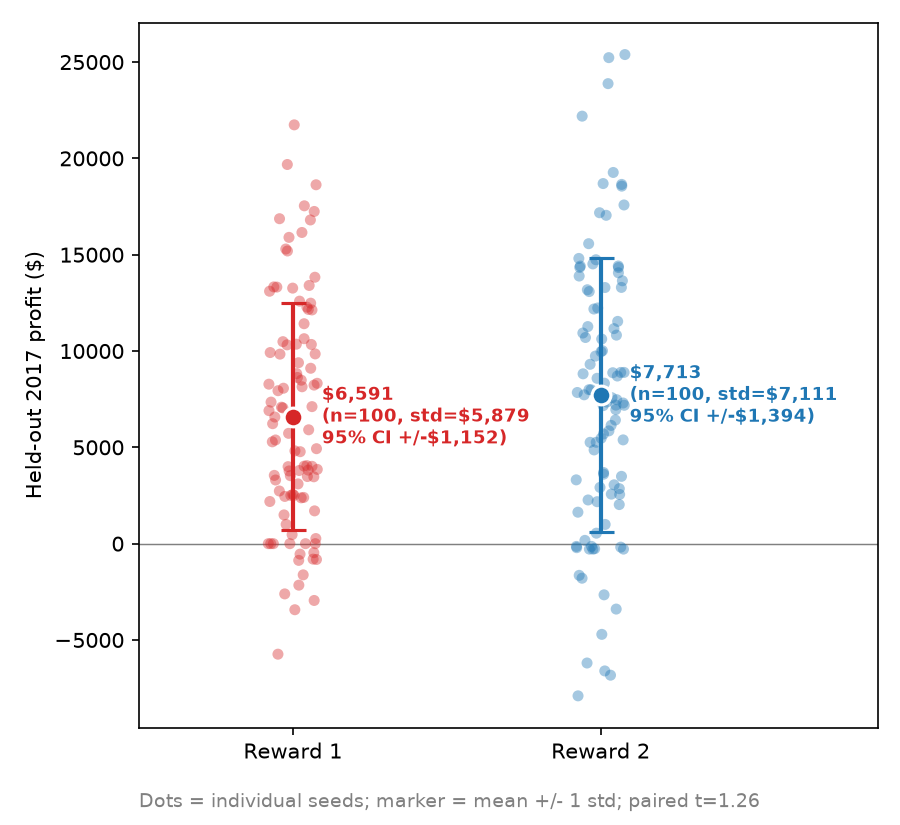
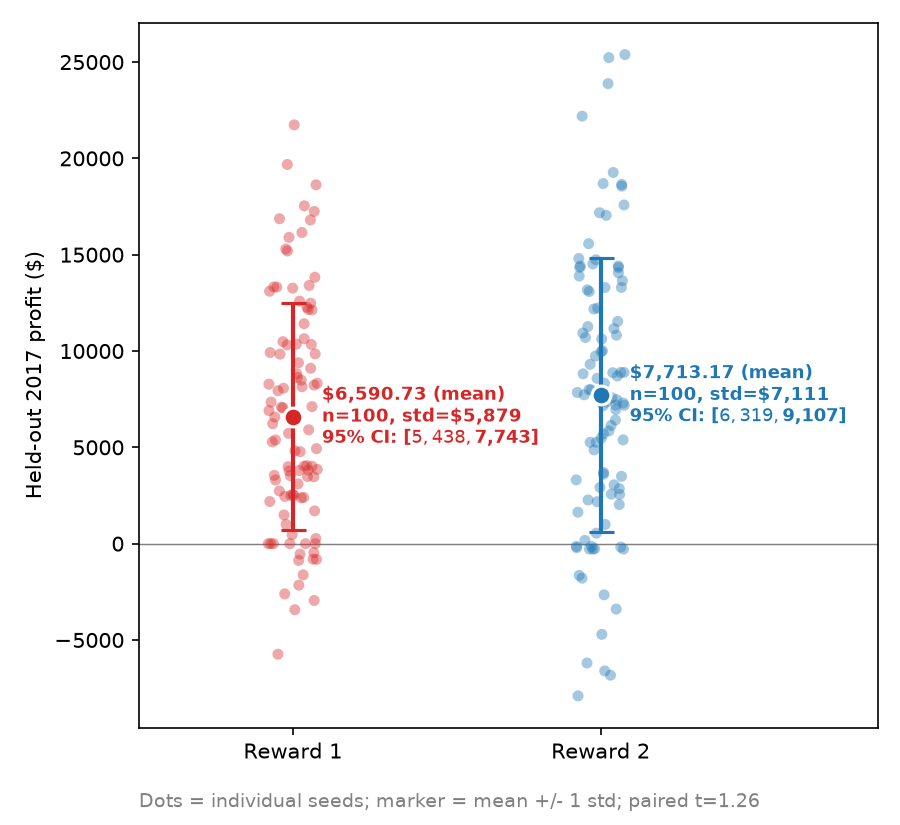
Bring evaluate.py's plot and the distribution plots to the same standard
evaluate.py's own held-out mean+/-std plot was the one remaining plot type
without a price panel or final-value annotation -- now matches the other
experiments (price panel on top, mean profit labeled in the legend and at
the curve's end). Output files renamed to held_out_2017_eval_plot.png /
held_out_2017_eval_summary.json directly (previously written as the
generic eval_plot.png/eval_summary.json and manually renamed after the
fact) so a future re-run doesn't produce stale unprefixed duplicates.

The multi-trial distribution/CI plots (training and held-out) now show the
literal 95% CI bounds ([$low, $high]) next to each mean, not just a +/-
half-width -- easier to read the interval directly off the plot.

Changed region(s): [[0.3422, 0.4545, 0.6222, 0.5455], [0.6844, 0.4242, 0.9333, 0.5152]]

diff --git a/evaluate.py b/evaluate.py
@@ -82,7 +82,12 @@ def main():
     print(f"Evaluating run {run_dir} ({len(trial_dirs)} trial(s)) on "
           f"{len(prices)} held-out hours from {args.data}")
 
-    plt.figure(figsize=(9, 5))
+    fig, (price_ax, profit_ax) = plt.subplots(2, 1, figsize=(10, 6.5), sharex=True, height_ratios=[1, 2])
+    hours_axis = np.arange(len(prices))
+    price_ax.plot(hours_axis, prices, color="tab:gray", linewidth=0.5)
+    price_ax.set_ylabel("Price ($/MWh)")
+    price_ax.set_title("Underlying price series", fontsize=10, color="dimgray", loc="left")
+    colors = {"reward_1": "tab:red", "reward_2": "tab:blue"}
     eval_results = {}
 
     for reward_kind in ("reward_1", "reward_2"):
@@ -128,24 +133,33 @@ def main():
         }
 
         hours = np.arange(len(mean_curve))
-        line, = plt.plot(hours, mean_curve, label=f"{reward_kind} (mean of {len(curves)} trials)")
-        plt.fill_between(hours, mean_curve - std_curve, mean_curve + std_curve,
-                          alpha=0.2, color=line.get_color(), label=f"{reward_kind} (+/- 1 std)")
+        color = colors[reward_kind]
+        profit_ax.fill_between(hours, mean_curve - std_curve, mean_curve + std_curve,
+                                alpha=0.2, color=color, linewidth=0)
+        profit_ax.plot(hours, mean_curve, color=color,
+                        label=f"{reward_kind} (mean of {len(curves)} trials): ${mean_curve[-1]:,.2f}")
+        profit_ax.annotate(f"${mean_curve[-1]:,.2f}", (len(mean_curve) - 1, mean_curve[-1]), color=color,
+                            fontsize=9, fontweight="bold", xytext=(6, 0),
+                            textcoords="offset points", va="center")
 
-    plt.xlabel("Time (hour)")
-    plt.ylabel("Cumulative profit ($)")
-    plt.title("Held-out evaluation -- mean +/- std across trials (greedy policy, frozen Q-tables)")
-    plt.legend()
-    plt.tight_layout()
+    profit_ax.axhline(0, color="gray", linewidth=0.7)
+    profit_ax.set_xlabel("Time (hour)")
+    profit_ax.set_ylabel("Cumulative profit ($)")
+    profit_ax.set_title("Held-out evaluation -- mean +/- 1 std across trials (greedy policy, frozen Q-tables)",
+                         fontsize=11, loc="left")
+    profit_ax.legend()
+    profit_ax.margins(x=0.09)  # room for the end-of-curve annotations
+    fig.tight_layout()
 
     # Kept inside the run's own directory (alongside q_table_*.npy,
     # summary.json, etc.) rather than a separate top-level outputs/eval_plots/
     # -- everything about one run's performance lives in one place.
-    out_path = run_dir / "eval_plot.png"
-    plt.savefig(out_path, dpi=150)
+    out_path = run_dir / "held_out_2017_eval_plot.png"
+    fig.savefig(out_path, dpi=150)
     print(f"Saved plot to {out_path}")
 
-    (run_dir / "eval_summary.json").write_text(json.dumps({"data": args.data, "results": eval_results}, indent=2))
+    (run_dir / "held_out_2017_eval_summary.json").write_text(
+        json.dumps({"data": args.data, "results": eval_results}, indent=2))
 
 
 if __name__ == "__main__":

diff --git a/scripts/data_plots/plot_100seed_distribution.py b/scripts/data_plots/plot_100seed_distribution.py
@@ -69,10 +69,11 @@ def main():
                    zorder=3, edgecolors="none")
         mean, std = vals.mean(), vals.std()
         ci95 = 1.96 * std / np.sqrt(n)
+        ci_low, ci_high = mean - ci95, mean + ci95
         ax.errorbar([i], [mean], yerr=[std], fmt="o", color=color, ecolor=color,
                    elinewidth=2, capsize=6, markersize=9, zorder=4,
                    markeredgecolor="white", markeredgewidth=1.5)
-        ax.annotate(f"${mean:,.0f}\n(n={n}, std=${std:,.0f}\n95% CI +/-${ci95:,.0f})",
+        ax.annotate(f"${mean:,.2f} (mean)\nn={n}, std=${std:,.0f}\n95% CI: [${ci_low:,.0f}, ${ci_high:,.0f}]",
                    (i, mean), color=color, fontsize=8.5,
                    xytext=(14, 0), textcoords="offset points", va="center", fontweight="bold")
 
@@ -90,14 +91,16 @@ def main():
     fig.savefig(out_path, dpi=150)
     print(f"Saved plot to {out_path}")
 
+    def summarize(vals):
+        mean, std = float(vals.mean()), float(vals.std())
+        ci95 = 1.96 * std / np.sqrt(n)
+        return {"mean": mean, "std": std, "min": float(vals.min()), "max": float(vals.max()),
+                "ci95_halfwidth": ci95, "ci95_low": mean - ci95, "ci95_high": mean + ci95}
+
     stats = {
         "n_trials": n,
-        "reward_1": {"mean": float(r1.mean()), "std": float(r1.std()),
-                     "min": float(r1.min()), "max": float(r1.max()),
-                     "ci95_halfwidth": float(1.96 * r1.std() / np.sqrt(n))},
-        "reward_2": {"mean": float(r2.mean()), "std": float(r2.std()),
-                     "min": float(r2.min()), "max": float(r2.max()),
-                     "ci95_halfwidth": float(1.96 * r2.std() / np.sqrt(n))},
+        "reward_1": summarize(r1),
+        "reward_2": summarize(r2),
         "paired_diff_mean": float(d.mean()),
         "paired_diff_std": float(d.std(ddof=1)),
         "paired_t_stat": float(paired_t),
